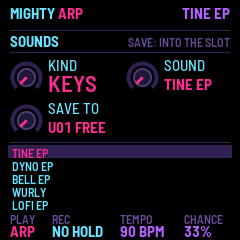
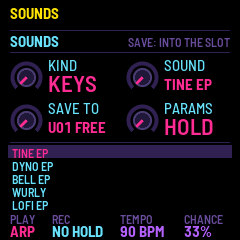
PARAMS (HOLD or CHANGE) back on SOUNDS' fourth knob; RESETS' knobs RESET, SURE?, then SAVE
What a sound change sets is SOUNDS' PARAMS: HOLD (the default, the sound only) or CHANGE (a USER preset all it
kept, a factory sound the arp, effects and sequence as new). RESETS' PARAMS and FACTORY both read RESET; a turn
right SURE?, SAVE does it, left backs out, one armed at a time. The manual and its SOUNDS picture.

Changed region(s): [[0.525, 0.4083, 0.9042, 0.5833], [0.0292, 0.0292, 0.35, 0.0875], [0.7583, 0.0292, 0.9625, 0.0875]]

diff --git a/app/app.c b/app/app.c
@@ -34,14 +34,14 @@ enum { P_TONE, P_STRIKE, P_DETUNE, P_VELO,            /* SOUND */
        P_FATT, P_FSUS, P_FREL, P_KEYTRK,              /* FILTER ENVELOPE (ENV a third time; its DECAY is P_FDEC),
                                                        * FILTER's KEY TRACK */
        P_CHORD, P_STRUM, P_KEY, P_SCALE,              /* CHORDS (ARP again) */
-       P_LOADS,                                       /* GLOBAL's PRESETS: what a sound change sets (the player's) */
+       P_LOADS,                                       /* SOUNDS's PARAMS: what a sound change sets (the player's) */
        P_SEQLEN,                                      /* SEQ's fourth: the sequence's LENGTH (it goes with the steps) */
        NP,
        PX_SPACE = NP,                                 /* HOME's macro: the reverb's mix and length together */
        PX_OPR, PX_OPL, PX_OPW, PX_OPD,                /* OP 1-4: the operator's ratio, level, wave, decay */
        PX_CAT, PX_SND, PX_SLOT,                       /* SOUNDS: the kind, the sound, the USER slot SAVE writes */
-       PX_RESET,                                      /* RESETS: PARAMS, KEEP or (a detent right) RESET */
-       PX_FACTORY,                                    /* RESETS: FACTORY, KEEP, SURE?, then everything as new */
+       PX_RESET,                                      /* RESETS: PARAMS, RESET, SURE?, then SAVE: the arp and FX as new */
+       PX_FACTORY,                                    /* RESETS: FACTORY, RESET, SURE?, then SAVE: everything as new */
        PX_STEP, PX_NOTE, PX_SVEL,                     /* SEQ: the step the cursor is on, its note, its velocity */
        PX_NONE = 0xFF };                              /* no knob there */
 #define NWAVE 14u                        /* W1..W8 the TX81Z's, W9 SAW, W10 SQUARE, W11-W12 PULSES, W13 TRIANGLE,
@@ -94,7 +94,7 @@ static const param_t PAR[NP] = {
     {"RELEASE", "frel", 0, 100, 60, U_TIME},     {"KEY TRACK", "keytrack", 0, 100, 50, U_PCT},
     {"CHORD", "chord", 0, NCHORD - 1, 0, U_CHORD}, {"STRUM", "strum", 0, 100, 0, U_STRUM},
     {"KEY", "key", 0, 11, 0, U_KEY},             {"SCALE", "scale", 0, NSCALE - 1, 0, U_SCALE},
-    {"PRESETS", "loads", 0, 1, 0, U_LOADS},
+    {"PARAMS", "loads", 0, 1, 0, U_LOADS},
     {"LENGTH", "seq_len", 1, 32, 16, U_STEPS},
 };
 
@@ -116,14 +116,14 @@ static const page_t PAGE[NPAGE] = {
     {"SEQ", B_SEQ, {PX_STEP, PX_NOTE, PX_SVEL, P_SEQLEN}},   /* the steps; the keys write them */
     {"DELAY", B_FX, {P_DMIX, P_DTIME, P_DFDBK, P_WIDTH}},
     {"REVERB", B_FX, {P_RMIX, P_RLEN, P_RDARK, P_SHIMMER}},
-    {"GLOBAL", B_GLO, {P_CLOCK, P_MIDICH, P_VCURVE, P_LOADS}},
+    {"GLOBAL", B_GLO, {P_CLOCK, P_MIDICH, P_VCURVE, PX_NONE}},
     {"CHORUS", B_FX, {P_CHORUS, P_CRATE, P_CDEPTH, PX_NONE}},
     {"OP 1", B_EDIT, {PX_OPR, PX_OPL, PX_OPW, PX_OPD}},
     {"OP 2", B_EDIT, {PX_OPR, PX_OPL, PX_OPW, PX_OPD}},
     {"OP 3", B_EDIT, {PX_OPR, PX_OPL, PX_OPW, PX_OPD}},
     {"OP 4", B_EDIT, {PX_OPR, PX_OPL, PX_OPW, PX_OPD}},
     {"VOICE", B_SEL, {P_VOICES, P_GLIDE, PX_NONE, PX_NONE}},
-    {"SOUNDS", B_HOME, {PX_CAT, PX_SND, PX_SLOT, PX_NONE}},
+    {"SOUNDS", B_HOME, {PX_CAT, PX_SND, PX_SLOT, P_LOADS}},
     {"FILTER", B_ENV, {P_CUTOFF, P_RES, P_FENV, P_KEYTRK}},
     {"LFO 2", B_LFO, {P_PWM, P_LFOCUT, PX_NONE, PX_NONE}},
     {"FILTER ENVELOPE", B_ENV, {P_FATT, P_FDEC, P_FSUS, P_FREL}},
@@ -476,8 +476,9 @@ static uint8_t set_dirty;                /* changed since the last save: SAVE is
 /* the player's own presets, USER 1..16: every knob (the arp, CHORDS, the effects and TEMPO too, not the player's own:
  * CLOCK, MIDI CH, VEL CURVE, LOADS) and the four operators, on the factory sound it began from (base: the operators'
  * details no knob shows). Their own store object, OBJ_USER: SAVE on SOUNDS writes one there. A sound number past the
- * factory's (set.preset >= NPRESET) is user slot n - NPRESET. LOADS decides what a sound change sets: SOUND, the
- * sound's knobs (SOUND_P) only; ALL, everything a USER preset kept, and a factory sound the arp and effects as new */
+ * factory's (set.preset >= NPRESET) is user slot n - NPRESET. LOADS (SOUNDS's PARAMS) decides what a sound change
+ * sets: HOLD, the sound's knobs (SOUND_P) only; CHANGE, everything a USER preset kept, and a factory sound the arp,
+ * effects and sequence as new */
 static const uint8_t SOUND_P[] = {P_TONE, P_STRIKE, P_DETUNE, P_VELO, P_ATTACK, P_DECAY, P_SUSTAIN, P_RELEASE,
                                   P_LRATE, P_LSHAPE, P_VIB, P_TREM, P_ALGO, P_RATIO, P_FDBK, P_WAVE, P_VOICES,
                                   P_GLIDE, P_CUTOFF, P_RES, P_FENV, P_FDEC, P_PWM, P_LFOCUT, P_FATT, P_FSUS,
@@ -1755,8 +1756,8 @@ static void seq_defaults(void)
 }
 
 static void preset_load(uint32_t p)      /* a sound: its envelope, LFO, EDIT, OP and VOICE pages, and SOUND's two
-                                          * at the middle; a user preset: its sound, or with LOADS on ALL everything
-                                          * it kept (a factory sound then the arp and effects as new) */
+                                          * at the middle; a user preset: its sound, or with LOADS on CHANGE
+                                          * everything it kept (a factory sound then the arp and effects as new) */
 {
     const preset_t *pr;
     int all = set.p[P_LOADS] == 1;
@@ -1965,7 +1966,6 @@ static void theme(void)
     pal[4] = RGB(255, 46, 151);          /* C_HI: values, the knobs, new notes: hot pink */
 }
 
-#define RESET_TURNS 1u                   /* GLOBAL's PARAMS: KEEP, then RESET (a detent right) */
 static struct {
     char msg[2][24];                     /* a short message over the header */
     uint32_t msg_until;
@@ -1974,9 +1974,9 @@ static struct {
     uint32_t turned_at[4];               /* when each knob was last turned: its value lit for a moment */
     uint32_t tempo_at, chance_at;        /* the same, SELECT and ALGO */
     uint32_t save_slot;                  /* SOUNDS: the USER slot SAVE writes, 0..15 */
-    uint32_t reset_arm;                  /* GLOBAL's PARAMS: KEEP, or turned right RESET (done) */
+    uint8_t reset_arm;                   /* RESETS's PARAMS: 0 RESET, 1 SURE? (SAVE: done) */
     uint8_t user_peek;                   /* SOUNDS on USER with none saved: its empty slots, the sound kept */
-    uint8_t factory_arm;                 /* RESETS's FACTORY: 0 KEEP, 1 SURE? (SAVE: done) */
+    uint8_t factory_arm;                 /* RESETS's FACTORY: 0 RESET, 1 SURE? (SAVE: done); one armed at a time */
     uint8_t rescan;                      /* the keys as up after this scan: one still pressed sounds again (FACTORY) */
     uint8_t seq_cur;                     /* SEQ: the step the cursor is on (the keys write there), 0..LENGTH-1 */
     uint8_t redraw;
@@ -2133,12 +2133,8 @@ static void param_text(uint32_t p, char *t)  /* a parameter's value as the scree
         text_cat(t, users.u[ui.save_slot].used ? " USED" : " FREE");
         return;
     }
-    if (p == PX_RESET) {                     /* GLOBAL's RESET: turn right until it goes */
-        text_cat(t, ui.reset_arm ? "RESET" : "KEEP");
-        return;
-    }
-    if (p == PX_FACTORY) {
-        text_cat(t, ui.factory_arm ? "SURE?" : "KEEP");
+    if (p == PX_RESET || p == PX_FACTORY) {  /* RESETS's: RESET, turned right SURE? (SAVE does it) */
+        text_cat(t, (p == PX_RESET ? ui.reset_arm : ui.factory_arm) ? "SURE?" : "RESET");
         return;
     }
     if (p == PX_STEP) {                      /* SEQ's: "5/16" */
@@ -2296,8 +2292,8 @@ static void param_text(uint32_t p, char *t)  /* a parameter's value as the scree
         int_text(v, t);
         text_cat(t, " STEPS");
         break;
-    case U_LOADS:                        /* PRESETS, on a sound change: KEEP the arp and effects, or CHANGE them */
-        text_cat(t, v ? "CHANGE" : "KEEP");
+    case U_LOADS:                        /* PARAMS, on a sound change: HOLD the arp and effects, or CHANGE them */
+        text_cat(t, v ? "CHANGE" : "HOLD");
         break;
     case U_CH:
         if (v)
@@ -2349,9 +2345,9 @@ static int32_t par_frac(uint32_t p, int32_t w)   /* how far the knob is turned, 
     case PX_SLOT:
         return (int32_t)ui.save_slot * w / (int32_t)(NUSER - 1u);
     case PX_RESET:
-        return (int32_t)ui.reset_arm * w / (int32_t)RESET_TURNS;
+        return (int32_t)ui.reset_arm * w;
     case PX_FACTORY:
-        return (int32_t)ui.factory_arm * w / 2;
+        return (int32_t)ui.factory_arm * w;
     case PX_STEP:
         return set.p[P_SEQLEN] > 1 ? (int32_t)seq_cur() * w / (set.p[P_SEQLEN] - 1) : 0;
     case PX_NOTE:
@@ -2581,30 +2577,15 @@ static void param_turn(uint32_t p, int32_t d)
         ui.redraw = 1;
         return;
     }
-    if (p == PX_RESET) {                     /* RESET: the arp, SEQ, CHORDS, CHANCE and the effects as new. Once
-                                              * done it stays DONE (turned on, nothing more); back left, it starts over */
-        uint32_t was = ui.reset_arm;
-        if (was >= RESET_TURNS && d < 0)
-            ui.reset_arm = 0;
-        else
-            ui.reset_arm = (uint32_t)clamp((int32_t)ui.reset_arm + d, 0, (int32_t)RESET_TURNS);
-        ui.redraw = 1;
-        if (ui.reset_arm == RESET_TURNS && was < RESET_TURNS) {
-            uint32_t f = plat_lock();
-            patch_defaults();
-            plat_unlock(f);
-            set_dirty = 1;
-            app_say("RESET", "ARP AND FX");
-        }
-        return;
-    }
-    if (p == PX_FACTORY) {                   /* FACTORY: a turn right SURE?; SAVE then erases (no turn of the knob, however
-                                              * quick, ever does); left, KEEP */
+    if (p == PX_RESET || p == PX_FACTORY) {  /* RESETS: a turn right SURE? (the other back to RESET); SAVE then
+                                              * does it (no turn of the knob, however quick, ever does); left, RESET */
+        uint8_t *arm = p == PX_RESET ? &ui.reset_arm : &ui.factory_arm;
         if (d < 0)
-            ui.factory_arm = 0;
-        else if (!ui.factory_arm) {
-            ui.factory_arm = 1;
-            app_say("FACTORY", "SAVE TO ERASE ALL");
+            *arm = 0;
+        else if (!*arm) {
+            ui.reset_arm = ui.factory_arm = 0;
+            *arm = 1;
+            app_say(p == PX_RESET ? "PARAMS" : "FACTORY", p == PX_RESET ? "SAVE TO RESET" : "SAVE TO ERASE ALL");
         }
         ui.redraw = 1;
         return;
@@ -2801,6 +2782,16 @@ static void input(void)
         } else if (k == B_SAVE && ui.page == PG_RESETS && ui.factory_arm) {   /* RESETS, FACTORY on SURE?: done */
             ui.factory_arm = 0;
             factory_reset();
+        } else if (k == B_SAVE && ui.page == PG_RESETS && ui.reset_arm) {   /* PARAMS on SURE?: the arp, CHORDS,
+                                                                              * CHANCE and the effects as new (the
+                                                                              * sound, TEMPO and the steps stay) */
+            uint32_t f = plat_lock();
+            ui.reset_arm = 0;
+            patch_defaults();
+            plat_unlock(f);
+            set_dirty = 1;
+            ui.redraw = 1;
+            app_say("RESET", "ARP AND FX");
         } else if (k == B_SAVE && ui.page == PG_SOUNDS) {   /* on SOUNDS: the sound into the USER slot chosen */
             char nm[16];
             if (user_store(ui.save_slot) != 0)
@@ -3305,7 +3296,7 @@ static void draw(void)
                 [PG_SOUNDS] = "SAVE: INTO THE SLOT", [PG_ENV] = "ENV AGAIN: FILTER",
                 [PG_FILTER] = "ENV AGAIN: ITS ENV", [PG_FENV] = "ENV AGAIN: AMP", [PG_LFO] = "LFO AGAIN: LFO 2", [PG_LFO2] = "LFO AGAIN: LFO 1",
                 [PG_ARP] = "ARP AGAIN: CHORDS", [PG_CHORDS] = "ARP AGAIN: ARP",
-                [PG_GLOBAL] = "GLO AGAIN: RESETS", [PG_RESETS] = "FACTORY: SURE?, THEN SAVE",
+                [PG_GLOBAL] = "GLO AGAIN: RESETS", [PG_RESETS] = "SURE?, THEN SAVE",
                 [PG_SEQ] = "KEYS WRITE  REC: REST", [PG_GROOVE] = "SEQ AGAIN: STEPS"};
             int32_t x = cv_text(10, 0, &FONT_B, pg->name, C_GRAY);
             if (IS_OP_PAGE(ui.page))         /* the operator's part in the algorithm */

diff --git a/app/docs/MANUAL.md b/app/docs/MANUAL.md
@@ -41,7 +41,7 @@ Each button opens a page for the four knobs. Press it again for its second page.
 | ARP | RATE, OCTAVES, MODE, GATE | CHORDS: CHORD, STRUM, KEY, SCALE |
 | SEQ | The sequencer: STEP, NOTE, VELOCITY, LENGTH | GROOVE: HUMANIZE, OCT JUMP, VEL RAND, SWING |
 | FX | DELAY | REVERB, then CHORUS |
-| GLO | CLOCK, MIDI CH, VEL CURVE, PRESETS (KEEP or CHANGE) | RESETS: PARAMS, FACTORY |
+| GLO | CLOCK, MIDI CH, VEL CURVE | RESETS: PARAMS, FACTORY |
 
 **CHORDS** turns each arp note into a chord in your key and scale (TRIAD, 7TH, LUSH, OPEN), or makes the arp pick
 from your chords' notes (the TONES settings). STRUM rolls each chord from low to high.
@@ -65,18 +65,18 @@ same note joins it into one long note.
 There are 64 sounds in eight kinds: keys, bells, plucks, bass, leads, pads, percussion and weird (noise and
 strange FM textures). Turn PRESET, or press HOME twice for the SOUNDS page.
 
-![The SOUNDS page: KIND, SOUND and SAVE TO, the kind's sounds listed below](img/sounds.png "SOUNDS")
+![The SOUNDS page: KIND, SOUND, SAVE TO and PARAMS, the kind's sounds listed below](img/sounds.png "SOUNDS")
 
 **Save your own:** on SOUNDS, pick a slot with SAVE TO and press SAVE. A USER preset keeps everything: the sound,
 arp, sequence, chords, effects and tempo. It gets a name like FROG MULLET.
 
-**PRESETS** (knob 4 on GLO) decides what changing preset does. On **KEEP**, only the sound changes and your arp and
-effects carry on. On **CHANGE**, a USER preset brings back everything it saved, and a factory sound starts from the
-default arp, effects and sequence.
+**PARAMS** (knob 4 on SOUNDS) decides what changing preset does. On **HOLD**, only the sound changes and your arp,
+effects and sequence carry on. On **CHANGE**, a USER preset brings back everything it saved, sequence and tempo
+included, and a factory sound starts from the default arp, effects and sequence (your tempo stays).
 
-**Reset:** press GLO twice for RESETS. Turn PARAMS one click right to RESET: the arp, chords and effects go back to
-their defaults; the sound, tempo and your steps stay. FACTORY, turned right to SURE? and then SAVE pressed, puts
-everything back as new and deletes every USER preset.
+**Reset:** press GLO twice for RESETS. Both knobs work the same way: turn one click right to SURE?, then press SAVE.
+PARAMS puts the arp, chords and effects back to their defaults; the sound, tempo and your steps stay. FACTORY puts
+everything back as new and deletes every USER preset. Turning left backs out.
 
 **SAVE on any other page** keeps how things are now for the next power-on.
 
